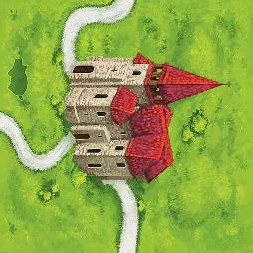
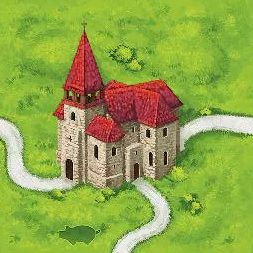
grid 100%

diff --git a/src/main/java/TuileGraph.java b/src/main/java/TuileGraph.java
@@ -1,27 +1,39 @@
 import javax.swing.*;
 import java.awt.*;
-import java.io.File;
+
 
 public class TuileGraph extends JButton {
     Tuile tuile;
-    boolean type; //True=Carcassonne, false=domino;
-
-
-
-
 
     public TuileGraph(Tuile t){
         this.tuile=t;
-        type=t instanceof TuileCarc;
-        File f=new File("ressources/tiles/PPPP.png");
-
-        System.out.println(f.canRead());
-        if(type){
-            this.setIcon(new ImageIcon("ressources/tiles/PPPP.png"));
-        }
-        else{
-            this.setIcon(new ImageIcon(""));
-        }
+        this.setIcon(matchIcon(t));
     }
 
+    public ImageIcon matchIcon(Tuile t){
+        String path="ressources/tiles/";
+        for(int i=0;i<t.bords.length;i++){
+            path+=t.bords[i];
+        }
+        if (((TuileCarc) t).abbaye) path += "(abbaye)";
+        if (((TuileCarc) t).symbole) path += "(symbole)";
+        if (((TuileCarc) t).separated) path+="(sep)";
+        ImageIcon icon=new ImageIcon(path + ".png");
+        Image img = icon.getImage() ;
+        Image newimg = img.getScaledInstance( 190, 125,  Image.SCALE_DEFAULT ) ;
+        icon = new ImageIcon( newimg );
+        return icon;
+    }
+
+    public void tourneGauche(){
+        tuile.tourneGauche();
+        matchIcon(tuile);
+        this.revalidate();
+    }
+
+    public void tourneDroite(){
+        tuile.tourneDroite();
+        matchIcon(tuile);
+        this.revalidate();
+    }
 }

diff --git a/src/main/java/PartieGraph.java b/src/main/java/PartieGraph.java
@@ -22,7 +22,7 @@ public class PartieGraph extends JPanel {
         for(int i=0;i<nombreJoueur;i++){
             score[i]=new JLabel();
             score[i].setText("Joueur"+ (i+1) +"=0");
-            score[i].setFont(new Font("Impact",0,50));
+            score[i].setFont(new Font("Impact",Font.PLAIN,50));
             score[i].setAlignmentY(CENTER_ALIGNMENT);
             scores.add(score[i]);
         }
@@ -36,6 +36,13 @@ public class PartieGraph extends JPanel {
         this.add(grid,BorderLayout.CENTER);
         this.add(scores,BorderLayout.EAST);
         this.setVisible(true);
+    }
+
+    public void poser(int x, int y, TuileGraph t){
+        grid.remove(y*p.table.plateau.length+x);
+        grid.add(t,y*p.table.plateau.length+x);
+        revalidate();
+
     }
 
 

diff --git a/src/main/java/TuileCarc.java b/src/main/java/TuileCarc.java
@@ -1,6 +1,16 @@
 public class TuileCarc extends Tuile{
 
-
     boolean pion;
+    String pCouleur;
+    String pBord;
     boolean abbaye;
+    boolean symbole;
+    boolean separated;
+
+    public TuileCarc(String nord,String ouest, String sud, String est,boolean abbaye, boolean symbole, boolean separated){
+        super(nord,ouest,sud,est);
+        this.abbaye=abbaye;
+        this.symbole=symbole;
+        this.separated=separated;
+    }
 }

diff --git a/src/main/java/Window.java b/src/main/java/Window.java
@@ -17,12 +17,7 @@ public class Window extends JFrame {
         this.setDefaultCloseOperation(EXIT_ON_CLOSE);
     }
 
-    public void poser(int x, int y, TuileGraph t){
-        content.grid.remove(y*content.p.table.plateau.length+x);
-        content.grid.add(t,y*content.p.table.plateau.length+x);
-        content.revalidate();
 
-    }
 
     public class Menu extends JPanel{
         public Menu(){

diff --git a/src/main/java/Test.java b/src/main/java/Test.java
@@ -11,10 +11,10 @@ public class Test {
         /*PartieCons p = new PartieCons(2, t, s);
         p.jouerPartieCons();*/
         Window p=new Window(2, t, s);
-        TuileCarc tuile=new TuileCarc();
+        TuileCarc tuile=new TuileCarc("V","R","P","R",false, false,false);
         TuileGraph tg=new TuileGraph(tuile);
 
-        p.poser(1,1,tg);
+        p.content.poser(2,2,tg);
 
 
 
